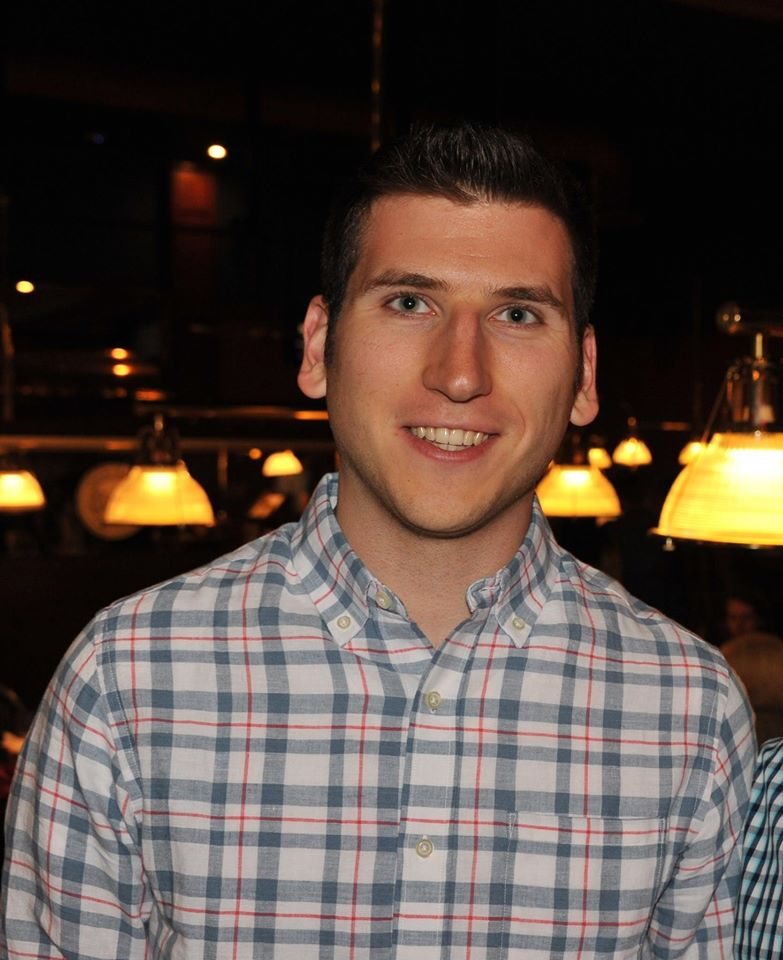
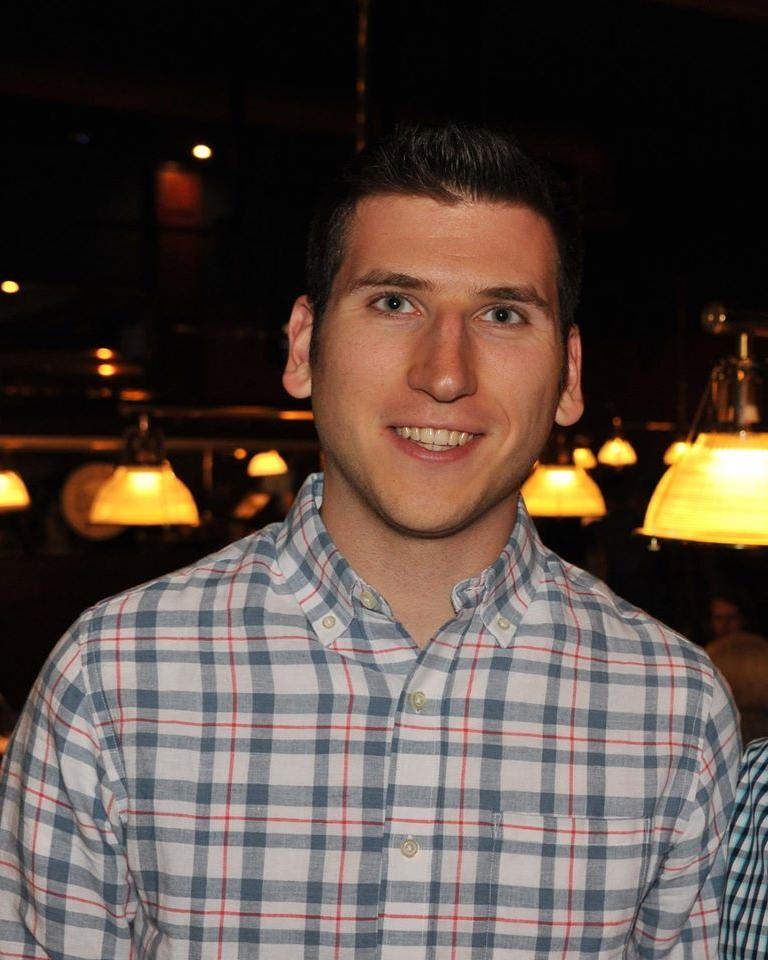
added a few people pictures and cropped every picture to make their dimensions consistent

diff --git a/public_html/js/people.js b/public_html/js/people.js
@@ -7,11 +7,11 @@ var listOfPeople = [
                     {"firstName":"Christina","lastName":"Fuentes","Occupation":"Graduate Student","Department":"Bioengineering","Former Education":"B.S. in Biomedical Engineering at Northwestern University","Project title":"An engineered self-inactivating adeno-associated virus mediated  cas9 delivery system for therapeutic genome editing","Project description":"","Project group":"Gene Therapy","Project supervisor":"","Nickname":"","Img Type":"jpg"},
                     {"firstName":"Jieung","lastName":"Baek","Occupation":"Postdoc","Department":"Chemical and Biomolecular Engineering","Former Education":"Chemical and Biomolecular Engineering Korea Advanced Institute of Science and Technology (KAIST)","Project title":"mechanisms that influence the mechanoregulation of neural stem cell lineage commitment and behavior","Project description":"Investigate mechanisms that regulate mechanosensitive lineage commitment of neural stem cells (NSCs) in three-dimensional (3D) environment","Project group":"","Project supervisor":"","Nickname":"","Img Type":"jpg"},
                     {"firstName":"Hunter","lastName":"Johnson","Occupation":"Graduate Student","Department":"Bioengineering","Former Education":"BS in Biomedical Engineering at the University of Wisconsin-Madison","Project title":"I primarily work on two projects, 1) Applying optogenetic toolkits to investigate and control human pluripotent stem cell differentiation in the neural niche. 2) Developing next-generation biomaterials for scalable stem cell manufacturing","Project description":"","Project group":"","Project supervisor":"","Nickname":"","Img Type":"jpg"},
-                    {"firstName":"Ana","lastName":"Carneiro","Occupation":"Graduate Student","Department":"Chemical and Biomolecular Engineering","Former Education":"BS in Chemical Engineering at Purdue University","Project title":"Use of an hESC-derived 3D platform for the development of viral therapeutics","Project description":"","Project group":"","Project supervisor":"","Nickname":"","Img Type":"jpg"},
+                    {"firstName":"Ana","lastName":"Carneiro","Occupation":"Graduate Student","Department":"Chemical and Biomolecular Engineering","Former Education":"BS in Chemical Engineering at Purdue University","Project title":"Use of an hESC-derived 3D platform for the development of viral therapeutics","Project description":"","Project group":"","Project supervisor":"","Nickname":"","Img Type":"png"},
 
                     {"firstName":"Bonnie","lastName":"Zhu","Occupation":"Postdoc","Department":"Quantitative Biosciences","Former Education":"Ph.D. in Bioengineering at Stanford University ","Project title":"Engineer AAV for effective delivery and targeting in human microglia / Optimize a red-light optogenetic tool for controlling intracellular pathways","Project description":"","Project group":"","Project supervisor":"","Nickname":"","Img Type":"png"},
                     {"firstName":"Kazuomori","lastName":"Lewis","Occupation":"Graduate Student","Department":"Bioengineering","Former Education":"B.S. in Chemical Engineering at Stanford University","Project title":"Cellular reprogramming for regenerative therapies in the CNS","Project description":"Presently, my research interests are in combining genetic engineering tools and novel viral vectors as a means to treat inflammatory and neurodegenerative diseases of the central nervous system. ","Project group":"","Project supervisor":"","Nickname":"Kaz","Img Type":"jpg"},
-                    {"firstName":"Juan ","lastName":"Hurtado","Occupation":"Graduate Student","Department":"Bioengineering","Former Education":"B.S. in Bioengineering at MIT","Project title":"CRISPR-guided DNA Polymerases for Continuous Directed Evolution in Mammalian Cells","Project description":"Natural selection demonstrates that genetically diverse populations evolve new traits that increase their fitness against selective pressure. Similarly, by introducing diverse genetic libraries into environments designed to favor the propagation of desired functionalities, we can emulate natural evolution to engineer useful new biotechnology. This technique is known as directed evolution and classically requires the iterative repetition of two separate steps: (i) constructing a diverse library of DNA coding sequences by random mutagenesis, and (ii) delivering those coding sequences into suitable living hosts for expression and screening for desired functionality.To minimize the frequency of false “winner” mutants whose success through screening does not ultimately translate to its intended use case, directed evolution screening pipelines must accurately recapitulate the environment in which variants are ultimately expected to function. Some therapeutic modalities, like immune cell therapies (e.g. CAR-T), may be improved by screening libraries of proteins directly within a human cell for their ability to initiate specific signalling cascades. Nevertheless, current directed evolution pipelines are unsuited for the repeated diversification and screening of genomically-integrated libraries in human cells. To address this need, I aim to adapt CRISPR-guided error-prone DNA polymerases (EvolvR) for the continuous, targeted diversification of transgenes in mammalian cells. By continuously generating diversity directly within the genome, EvolvR may eliminate screening bottlenecks related to inefficiencies in library delivery while enabling long-term diversification and interrogation of libraries for the discovery of rare and highly-optimized fitness peaks.","Project group":"","Project supervisor":"David Schaffer, John Dueber","Nickname":"","Img Type":"jpg"},
+                    {"firstName":"Juan","lastName":"Hurtado","Occupation":"Graduate Student","Department":"Bioengineering","Former Education":"B.S. in Bioengineering at MIT","Project title":"CRISPR-guided DNA Polymerases for Continuous Directed Evolution in Mammalian Cells","Project description":"Natural selection demonstrates that genetically diverse populations evolve new traits that increase their fitness against selective pressure. Similarly, by introducing diverse genetic libraries into environments designed to favor the propagation of desired functionalities, we can emulate natural evolution to engineer useful new biotechnology. This technique is known as directed evolution and classically requires the iterative repetition of two separate steps: (i) constructing a diverse library of DNA coding sequences by random mutagenesis, and (ii) delivering those coding sequences into suitable living hosts for expression and screening for desired functionality.To minimize the frequency of false “winner” mutants whose success through screening does not ultimately translate to its intended use case, directed evolution screening pipelines must accurately recapitulate the environment in which variants are ultimately expected to function. Some therapeutic modalities, like immune cell therapies (e.g. CAR-T), may be improved by screening libraries of proteins directly within a human cell for their ability to initiate specific signalling cascades. Nevertheless, current directed evolution pipelines are unsuited for the repeated diversification and screening of genomically-integrated libraries in human cells. To address this need, I aim to adapt CRISPR-guided error-prone DNA polymerases (EvolvR) for the continuous, targeted diversification of transgenes in mammalian cells. By continuously generating diversity directly within the genome, EvolvR may eliminate screening bottlenecks related to inefficiencies in library delivery while enabling long-term diversification and interrogation of libraries for the discovery of rare and highly-optimized fitness peaks.","Project group":"","Project supervisor":"David Schaffer, John Dueber","Nickname":"","Img Type":"jpg"},
                     {"firstName":"Jake","lastName":"Flood","Occupation":"Postdoc","Department":"Bioengineering","Former Education":"PhD in Molecular & Cellular Biology, University of Colorado Boulder  ","Project title":"CRISPR-guided tools for unbiased, targeted mutagenesis","Project description":"","Project group":"","Project supervisor":"","Nickname":"","Img Type":"jpg"},
                     {"firstName":"Li","lastName":"Lin","Occupation":"Graduate Student","Department":"Chemical and Biomolecular Engineering","Former Education":"BEng in Purdue University ","Project title":"Novel Sequencing Methods to enhance directed evolution selection ","Project description":"","Project group":"","Project supervisor":"","Nickname":"","Img Type":"jpg"},
                     {"firstName":"Joost","lastName":"van Haasteren","Occupation":"Postdoc","Department":"California Institute for Quantitative Biosciences (QB3) ","Former Education":"PhD in Medical Sciences at University of Oxford, MSc in Cell and Gene Therapy at University College London, BSc in Biomedical Sciences at Maastricht University","Project title":"Directed evolution of AAV capsid to increase genome carrying capacity ","Project description":"","Project group":"","Project supervisor":"David Schaffer","Nickname":"","Img Type":"jpg"},
